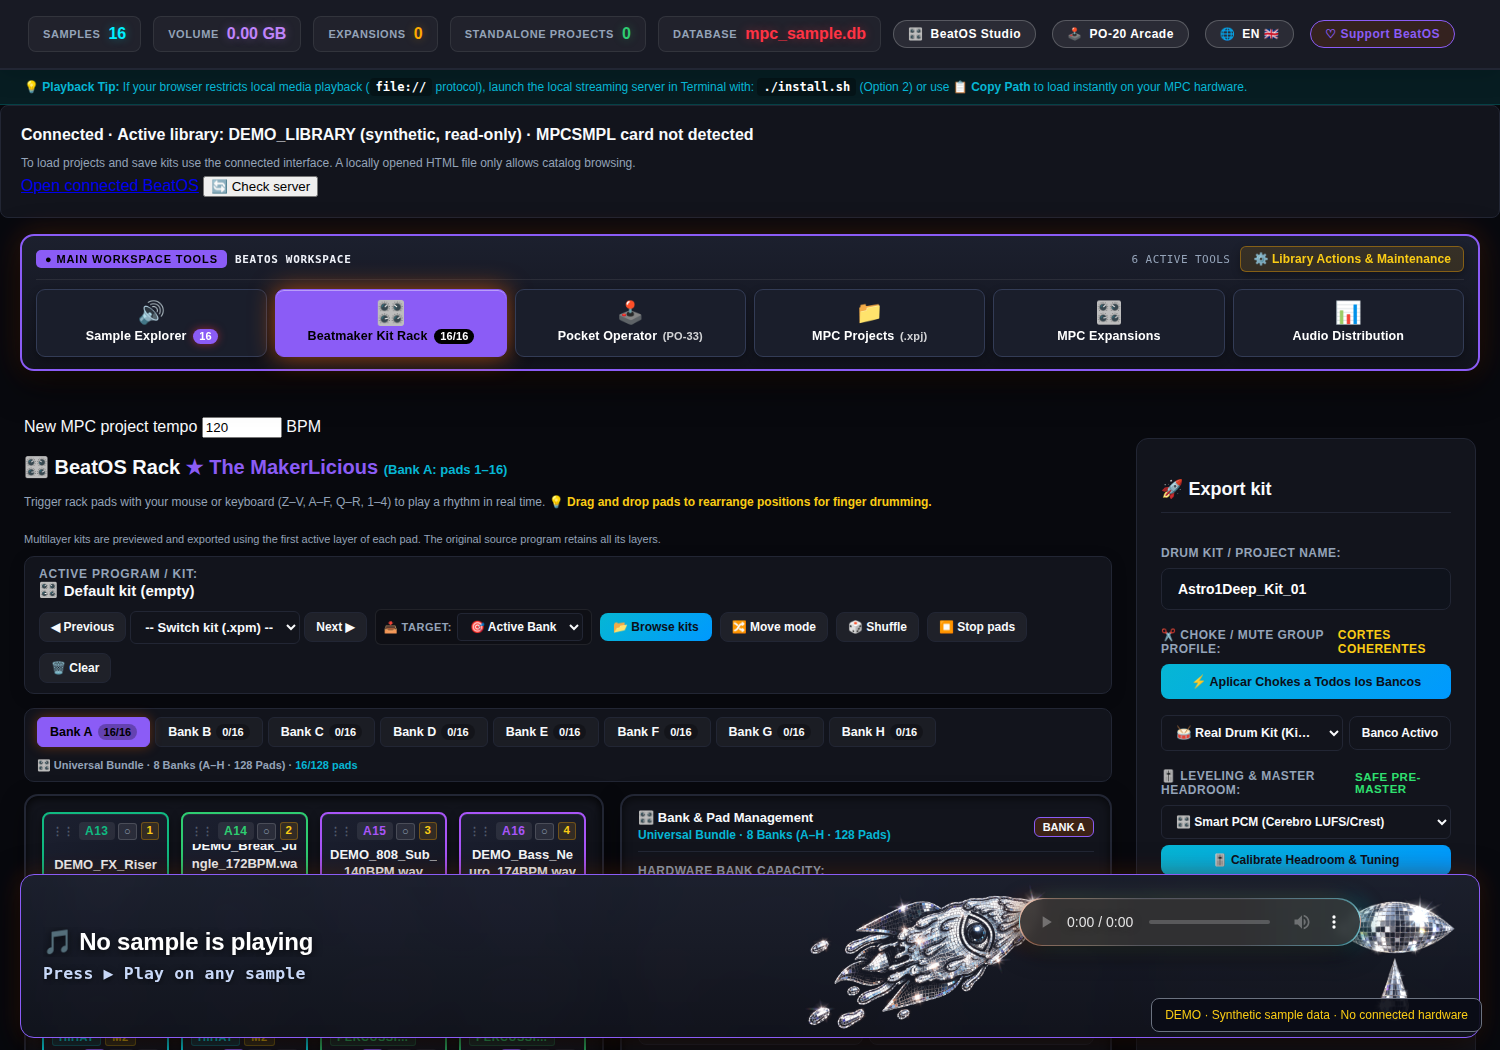
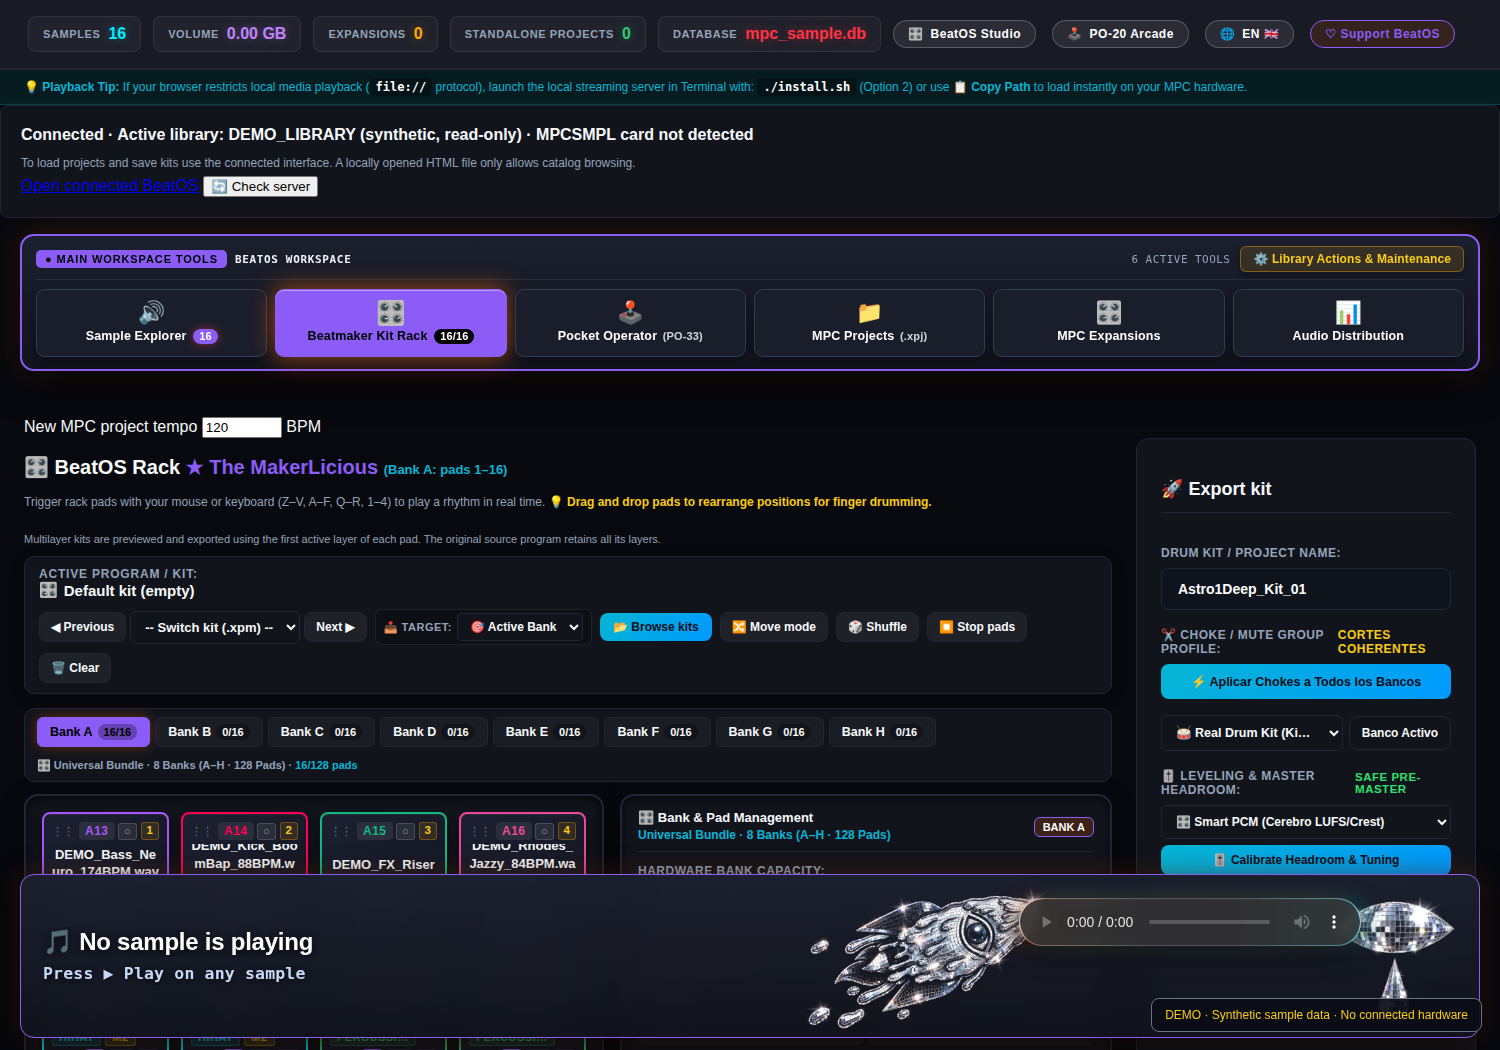
Keep each BeatOS launcher bound to its own library

Changed region(s): [[0.0307, 0.7619, 0.3987, 0.8533]]

diff --git a/serve_mpc.py b/serve_mpc.py
@@ -415,7 +415,7 @@ def run_sync_dashboard(root_dir: str, port: int) -> dict:
     if not Path(root_dir).is_dir():
         return {"success": False, "error": "La biblioteca ya no está disponible."}
     inventory = dashboard_inventory(root_dir, refresh=True)
-    cerebro = detect_cerebro_os(root_dir, port, mounted_libraries=inventory["libraries"])
+    cerebro = detect_cerebro_os(inventory["root_dir"], port, mounted_libraries=inventory["libraries"])
     inventory["cerebro_installed"] = cerebro["installed"]
     inventory["cerebro_synced"] = cerebro.get("bridge_synced", False)
     write_state_json(config_dir(root_dir) / "ecosystem_inventory.json", inventory)
@@ -1483,11 +1483,12 @@ def get_system_status(root_dir: str, port: int = 8888):
         "library_available": library_available,
         "card_mounted": card_mounted,
         "root_dir": root_dir,
+        "port": port,
         "sample_count": sample_count,
         "disk_free_gb": round(disk_stat.free / (1024**3), 2) if disk_stat else 0,
         "disk_total_gb": round(disk_stat.total / (1024**3), 2) if disk_stat else 0,
         "task_state": TASK_STATE,
-        "cerebro_os": detect_cerebro_os(root_dir, port),
+        "cerebro_os": detect_cerebro_os(root_dir),
     }
 
 def find_card_root(start_dir: str) -> str:
@@ -1501,13 +1502,6 @@ def find_card_root(start_dir: str) -> str:
     parent = os.path.dirname(os.path.abspath(start_dir))
     if os.path.isdir(os.path.join(parent, "MPC-Sample")) or os.path.isdir(os.path.join(parent, "Expansions")):
         return parent
-
-    if os.path.isdir("/Volumes/MPCSMPL"):
-        return "/Volumes/MPCSMPL"
-
-    docs_repo = os.path.expanduser("~/Documents/mpc-sample-database")
-    if os.path.isdir(docs_repo):
-        return docs_repo
 
     return os.path.abspath(start_dir)
 
@@ -1679,7 +1673,7 @@ class MPCAudioRequestHandler(BaseHTTPRequestHandler):
             self.send_header("Content-Type", "application/json; charset=utf-8")
             self.send_cors_headers()
             self.end_headers()
-            data = {"success": True, "cerebro_os": detect_cerebro_os(self.server.root_dir, self.server.server_port)}
+            data = {"success": True, "cerebro_os": detect_cerebro_os(self.server.root_dir)}
             self.wfile.write(self._api_json_dumps(data, ensure_ascii=False).encode("utf-8"))
             return
 
@@ -2810,7 +2804,9 @@ def existing_library_root(port):
     try:
         with urllib.request.urlopen(f'http://127.0.0.1:{port}/api/status', timeout=0.5) as response:
             state = json.loads(response.read(65536))
-        return Path(state['root_dir']).resolve() if state.get('status') == 'online' else None
+        if isinstance(state, dict) and state.get("status") == "online" and isinstance(state.get("root_dir"), str):
+            return Path(state["root_dir"]).resolve()
+        return None
     except (OSError, ValueError, KeyError):
         return None
 

diff --git a/tests/test_installer.py b/tests/test_installer.py
@@ -26,6 +26,27 @@ class InstallerTests(unittest.TestCase):
             self.assertEqual(Path(command[2]).parent,Path(serve_mpc.__file__).resolve().parent)
             self.assertEqual(command[-2:],['--path',tmp])
 
+    def test_installed_launcher_stays_with_its_own_card_without_generated_catalog(self):
+        with tempfile.TemporaryDirectory(prefix="BeatOS libraries ") as folder:
+            parent = Path(folder).resolve()
+            second = parent / "MPC-SAMPL3"
+            code = second / "BeatOS"
+            code.mkdir(parents=True)
+            (code / "serve_mpc.py").touch()
+            (code / "installer.py").touch()
+            self.assertFalse((code / "data/catalogo.html").exists())
+            self.assertEqual(serve_mpc.find_card_root(str(code)), str(second))
+            self.assertEqual(installer.default_library_root(code), second)
+
+    def test_standalone_source_does_not_select_a_different_mounted_library(self):
+        with tempfile.TemporaryDirectory() as folder:
+            source = Path(folder).resolve() / "source"
+            source.mkdir()
+            isdir = serve_mpc.os.path.isdir
+            with patch.object(serve_mpc.os.path, "isdir",
+                              side_effect=lambda path: str(path) == "/Volumes/MPCSMPL" or isdir(path)):
+                self.assertEqual(serve_mpc.find_card_root(str(source)), str(source))
+
     def test_offline_export_script_requests_user_paths(self):
         html=(Path(__file__).resolve().parents[1]/'templates/catalogo.html').read_text()
         script=html[html.index('const scriptLines = ['):html.index('const scriptContent =')]

diff --git a/tests/test_server_language.py b/tests/test_server_language.py
@@ -61,6 +61,24 @@ class APILanguageTests(unittest.TestCase):
             self.assertEqual(bridge["api_base"], "http://127.0.0.1:8891")
             self.assertEqual(bridge["root_dir"], folder)
 
+    def test_reading_other_card_status_preserves_the_synced_cerebro_library(self):
+        with tempfile.TemporaryDirectory() as folder, patch.object(Path, "home", return_value=Path(folder)):
+            home = Path(folder)
+            stack = home / ".mlx-stack"
+            stack.mkdir()
+            (stack / "cerebro").touch()
+            first, second = home / "First", home / "Second"
+            first.mkdir()
+            second.mkdir()
+            with patch.object(serve_mpc, "_probe_local_port", return_value=False), \
+                 patch.object(serve_mpc, "mounted_volume_paths", return_value=[]):
+                self.assertTrue(serve_mpc.run_sync_dashboard(str(first), 8888)["inventory"]["cerebro_synced"])
+                status = serve_mpc.get_system_status(str(second), 8889)
+            bridge = json.loads((stack / "beatos_bridge.json").read_text())
+            self.assertEqual(bridge["root_dir"], str(first.resolve()))
+            self.assertEqual(bridge["api_base"], "http://127.0.0.1:8888")
+            self.assertEqual((status["root_dir"], status["port"]), (str(second), 8889))
+
     def test_hardware_errors_are_translated_without_modifying_pad_number(self):
         from beatos_i18n import translate_text
         cases = {

diff --git a/beatos_paths.py b/beatos_paths.py
@@ -14,7 +14,11 @@ LEGACY_ENTRY_NAMES = ('catalogo_mpc_sample.html',)
 
 def default_library_root(code_dir):
     code = Path(code_dir).resolve()
-    return code.parent if code.name == APP_FOLDER and (code / 'data/catalogo.html').is_file() else code
+    # Installed archives have a code directory at <library>/BeatOS. A
+    # user can rebuild or delete the catalog without changing that layout.
+    if code.name == APP_FOLDER and (code / 'serve_mpc.py').is_file() and (code / 'installer.py').is_file():
+        return code.parent
+    return code
 
 
 def data_dir(root):
